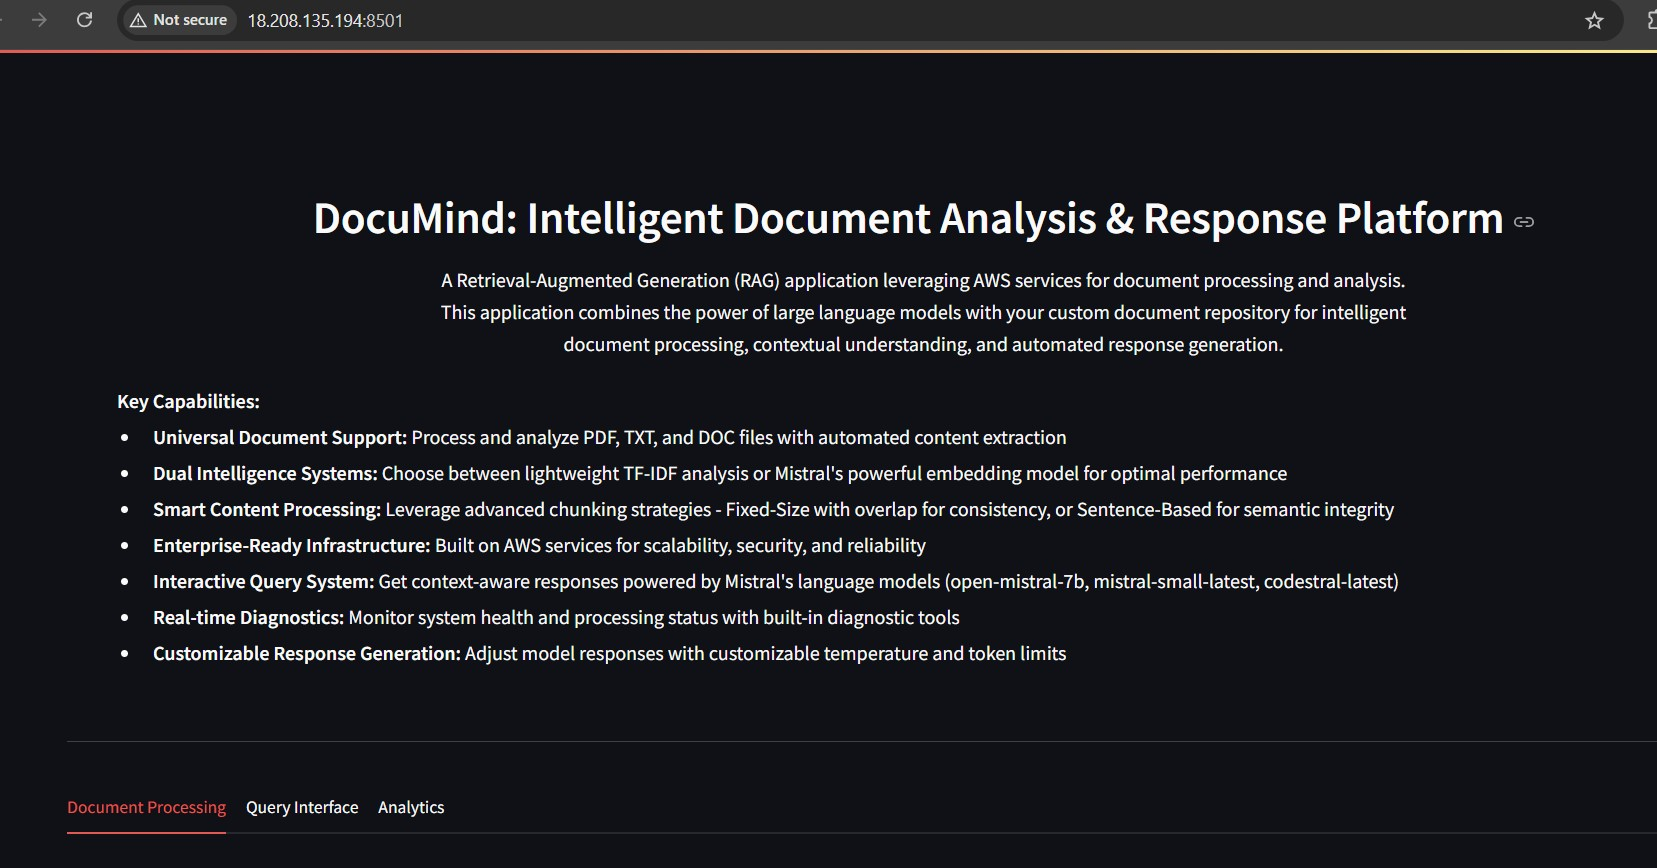
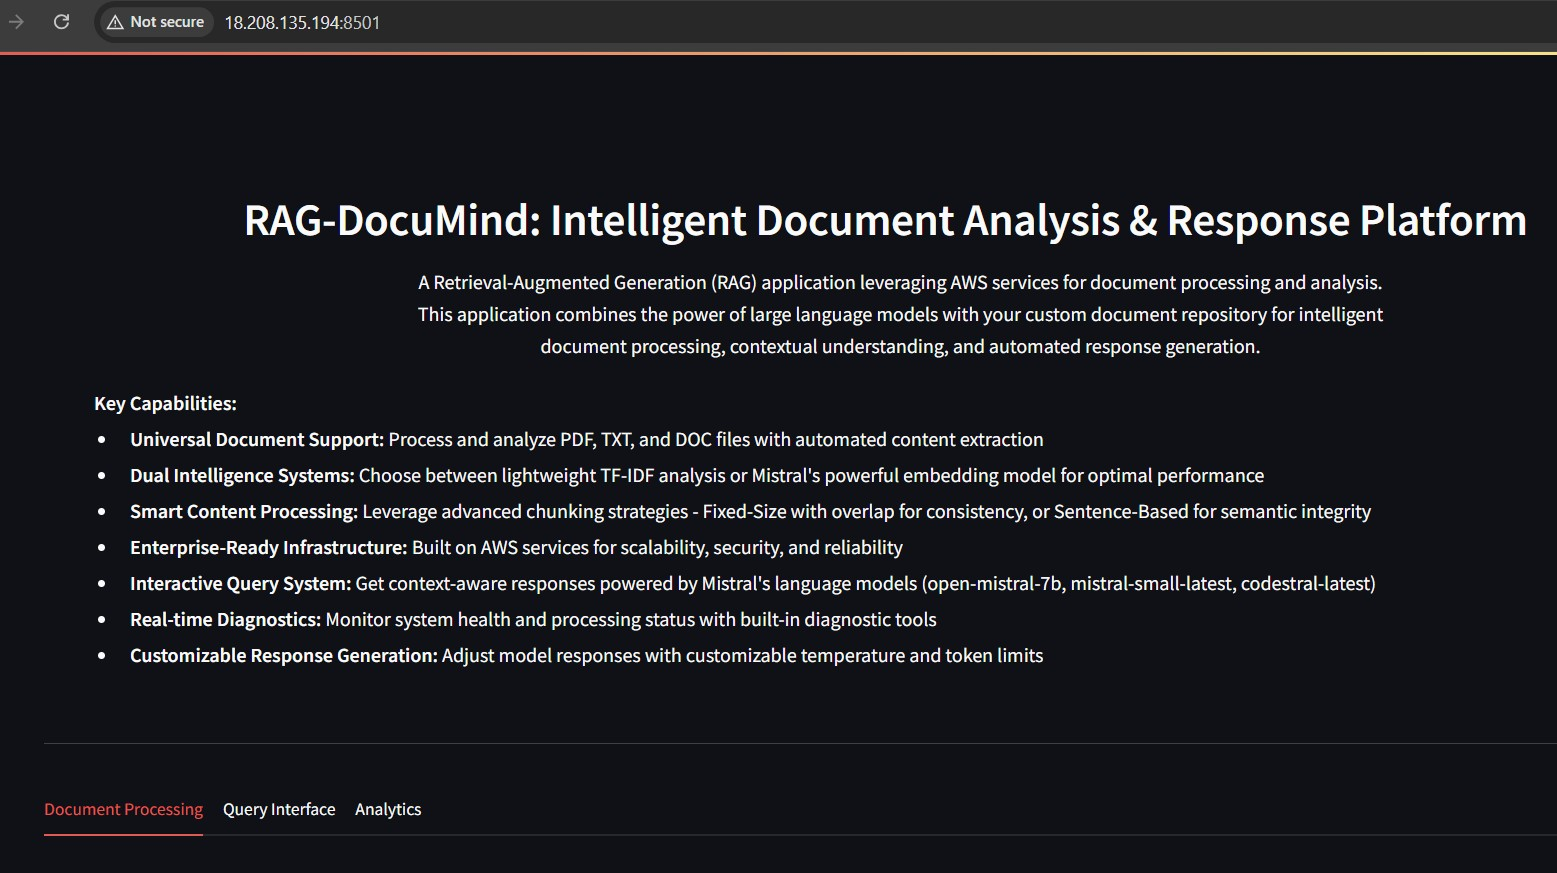
RAG-DocuMind: Intelligent Document Analysis

diff --git a/RAG-DocuMind/app.py b/RAG-DocuMind/app.py
@@ -702,7 +702,7 @@ def main():
     )
 
     # Center-aligned title with smaller size
-    st.markdown("<h2 style='text-align: center;'>DocuMind: Intelligent Document Analysis & Response Platform</h2>", unsafe_allow_html=True)
+    st.markdown("<h2 style='text-align: center;'>RAG-DocuMind: Intelligent Document Analysis & Response Platform</h2>", unsafe_allow_html=True)
     
     # Application description
     st.markdown("""
